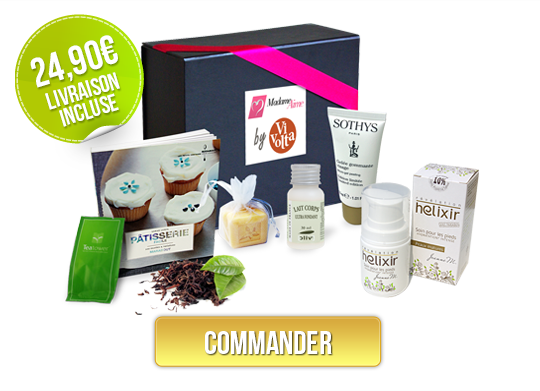
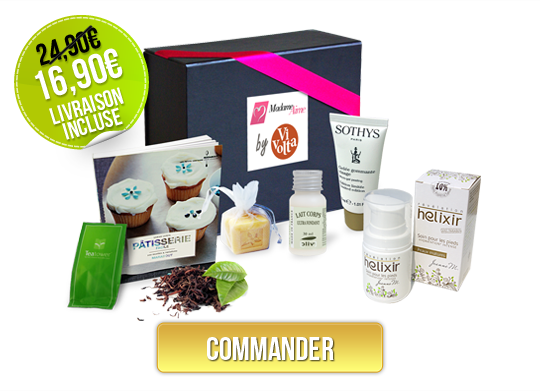
update 2013-may page

Changed region(s): [[0.0296, 0.0307, 0.8889, 0.9821]]

diff --git a/www/mmm/templates/boxes/2013-may.html b/www/mmm/templates/boxes/2013-may.html
@@ -7,7 +7,7 @@
     <div class="photo pull-left" style="width: 490px;">
       <form method="post" action="{% url 'emarket:shopping-cart.add' %}">
 	{% csrf_token %}
-	<input type="hidden" name="sale_id" value="14" />
+	<input type="hidden" name="sale_id" value="15" />
         <input type="image" src="{{ STATIC_URL }}img/boxes/2013-may/photo.png" alt="MadameAime by Vivolta"/>
       </form>
     </div>
@@ -25,7 +25,7 @@
       </p>
       <p style="font-size: 90%; font-weight: bold; margin-top: 30px; text-align: center" class="pink">
         Soit un coffret dont la valeur totale dépasse les 70€ et vendu au tarif de
-        24.90€ !
+        16.90€ !
       </p>
     </div>
   </div>

diff --git a/www/emarket/views.py b/www/emarket/views.py
@@ -1,3 +1,5 @@
+# -*- coding: utf8 -*-
+
 from datetime import datetime, timedelta
 from decimal import Decimal
 import json
@@ -84,6 +86,8 @@ class ShoppingCartAddView(View):
         if not sale.end or sale.end > datetime.now():
             request.session.setdefault('shopping_cart', []).append(sale.pk)
             request.session.modified = True
+        else:
+            raise Http404('Cette vente est terminée')
         return redirect(reverse('shopping-cart'), permanent=False)
 
 
